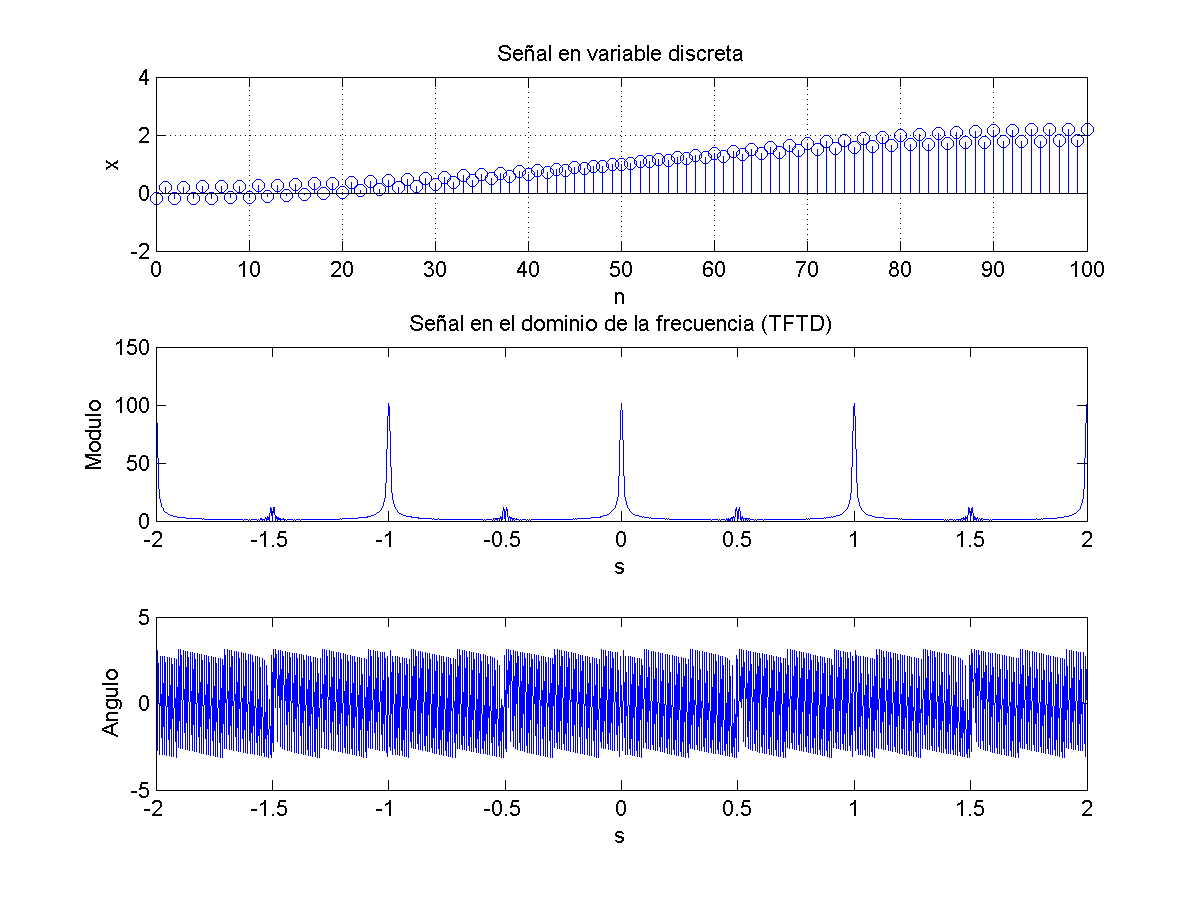
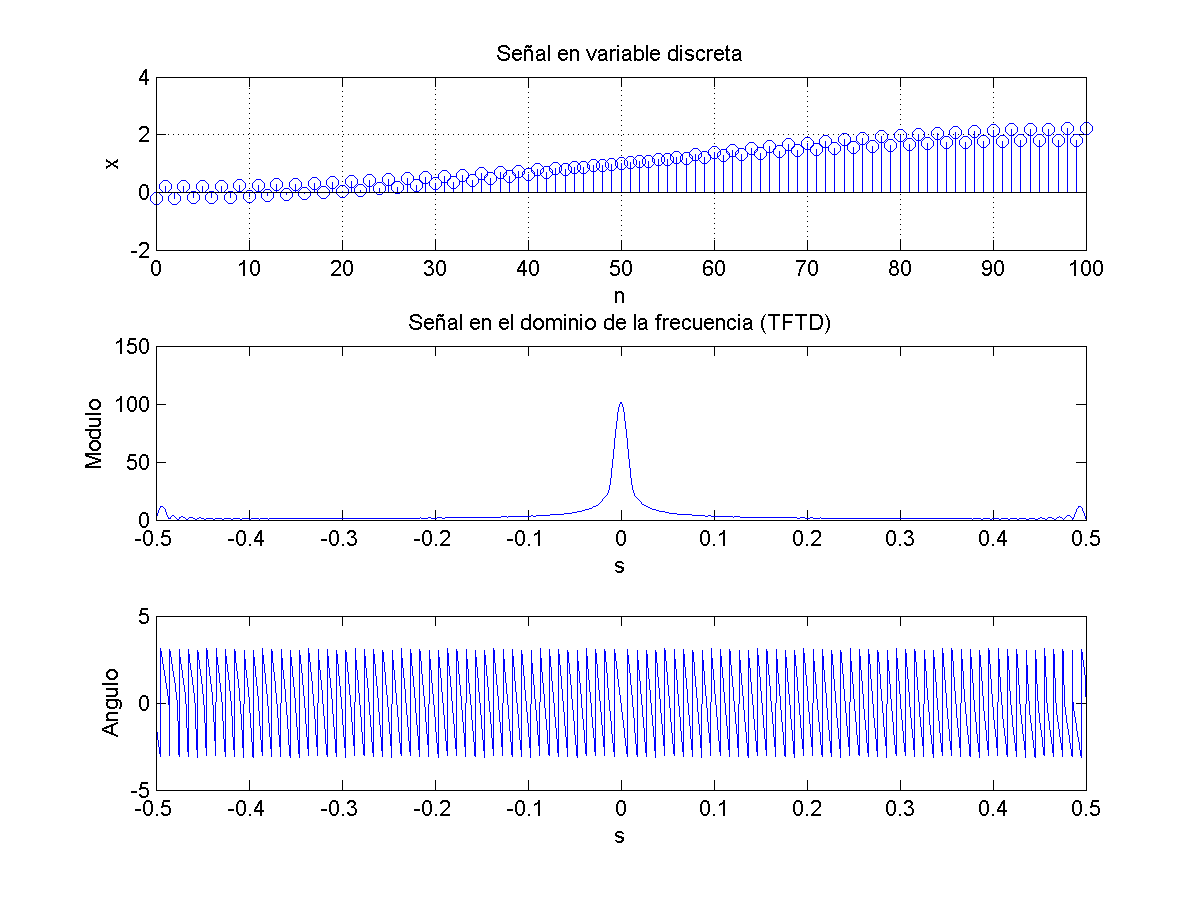
asdasd final

diff --git a/punto 1/ejer1_3_3.m b/punto 1/ejer1_3_3.m
@@ -2,8 +2,8 @@ addpath('..\..\MATLAB\funciones')
 addpath('sistemas')
 N = 10; delta = [zeros(1,N) 1 zeros(1,N)];
 n = [-N: N]
-ds=0.001;
-s= [-2:ds:2];
+ds=0.00025;
+s= [-0.5:ds:0.5];
 
 %SISTEMA 3
 y3 = sistema3(delta);
@@ -63,3 +63,4 @@ title('Fase de la TFTD de h3a');
 xlabel('Frecuencia');
 ylabel('Fase (radianes)');
 grid on;
+

diff --git a/punto 1/ejer1_5.m b/punto 1/ejer1_5.m
@@ -1,8 +1,8 @@
 addpath('..\..\MATLAB\funciones')
 addpath('sistemas')
 [n,x] = senial(28569);
-ds=0.001;
-s= [-2:ds:2];
+ds=0.00025;
+s= [-0.5:ds:0.5];
 
 %SISTEMA 1 
 y1 = sistema1(x);
@@ -65,6 +65,6 @@ ylabel('Angulo de Y4');
 xlabel('Frecuencia');
 
 
-print -f1 -dpng ejer1_5
+%print -f1 -dpng ejer1_5
 
 

diff --git a/punto 1/ejer1_3_2.m b/punto 1/ejer1_3_2.m
@@ -4,8 +4,8 @@ N = 10;
 delta = [zeros(1,N) 1 zeros(1,N)];
 delta1 = [zeros(1,(N+1)) 1 zeros(1,(N-1))];
 n = [-N: N]
-ds=0.001;
-s= [-2:ds:2];
+ds=0.00025;
+s= [-0.5:ds:0.5];
 
 
 %SISTEMA 2
@@ -63,3 +63,4 @@ title('Fase de la TFTD analitica ');
 xlabel('Frecuencia');
 ylabel('Fase (radianes)');
 grid on;
+

diff --git a/punto 1/ejer1_3_1.m b/punto 1/ejer1_3_1.m
@@ -4,8 +4,8 @@ N = 10;
 delta = [zeros(1,N) 1 zeros(1,N)];
 delta1 = [zeros(1,(N+1)) 1 zeros(1,(N-1))];
 n = [-N: N]
-ds=0.001;
-s= [-2:ds:2];
+ds=0.00025;
+s= [-0.5:ds:0.5];
 
 
 
@@ -64,3 +64,4 @@ title('Fase de la TFTD analitica ');
 xlabel('Frecuencia');
 ylabel('Fase (radianes)');
 grid on;
+

diff --git a/punto 1/ejer1_3_4.m b/punto 1/ejer1_3_4.m
@@ -2,8 +2,8 @@ addpath('..\..\MATLAB\funciones')
 addpath('sistemas')
 N = 10; delta = [zeros(1,N) 1 zeros(1,N)];
 n = [-N: N]
-ds=0.001;
-s= [-2:ds:2];
+ds=0.00025;
+s= [-0.5:ds:0.5];
 
 %SISTEMA 4
 y4 = sistema4(delta);

diff --git a/funciones/TFTD.m b/funciones/TFTD.m
@@ -1,6 +1,6 @@
 function X = TFTD(n, x)
-    ds=0.001;
-    s= [-2:ds:2];
+    ds=0.00025;
+    s= [-0.5:ds:0.5];
     X=zeros(size(s));
     for k=1:length(s)
      X(k)=sum(x.*exp(-1i*2*pi*s(k)*n)); 

diff --git a/punto 2/sistemas/sistema2.m b/punto 2/sistemas/sistema2.m
@@ -1,9 +1,4 @@
 function y = sistema2(x)
-
-% y(1) = x(1);
-% y(8821)= x(8821) - 0.45 * x(1);
-% y(17641) = x(17641) - 0.45 * x (8821) + 0.2025 * x(1);
-
 N = length(x);
 y = zeros(1, N);
 
